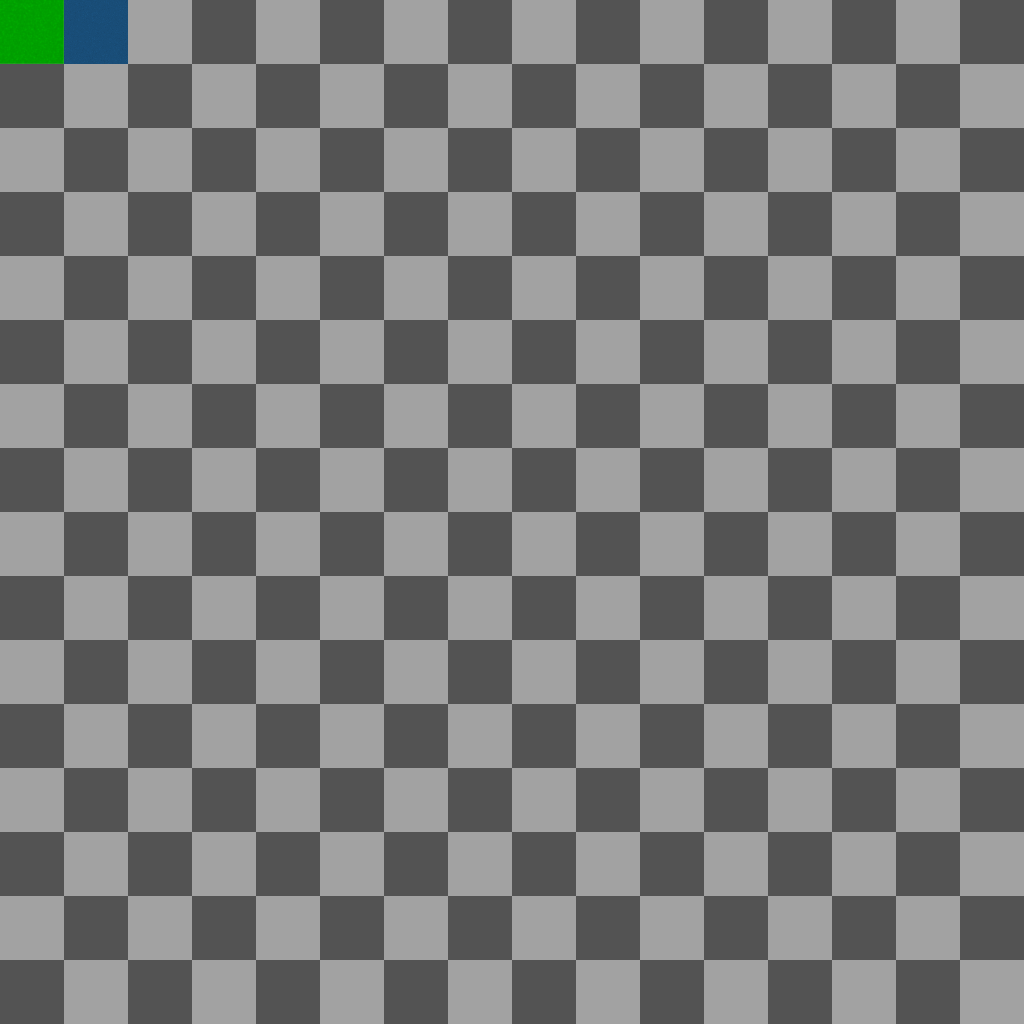
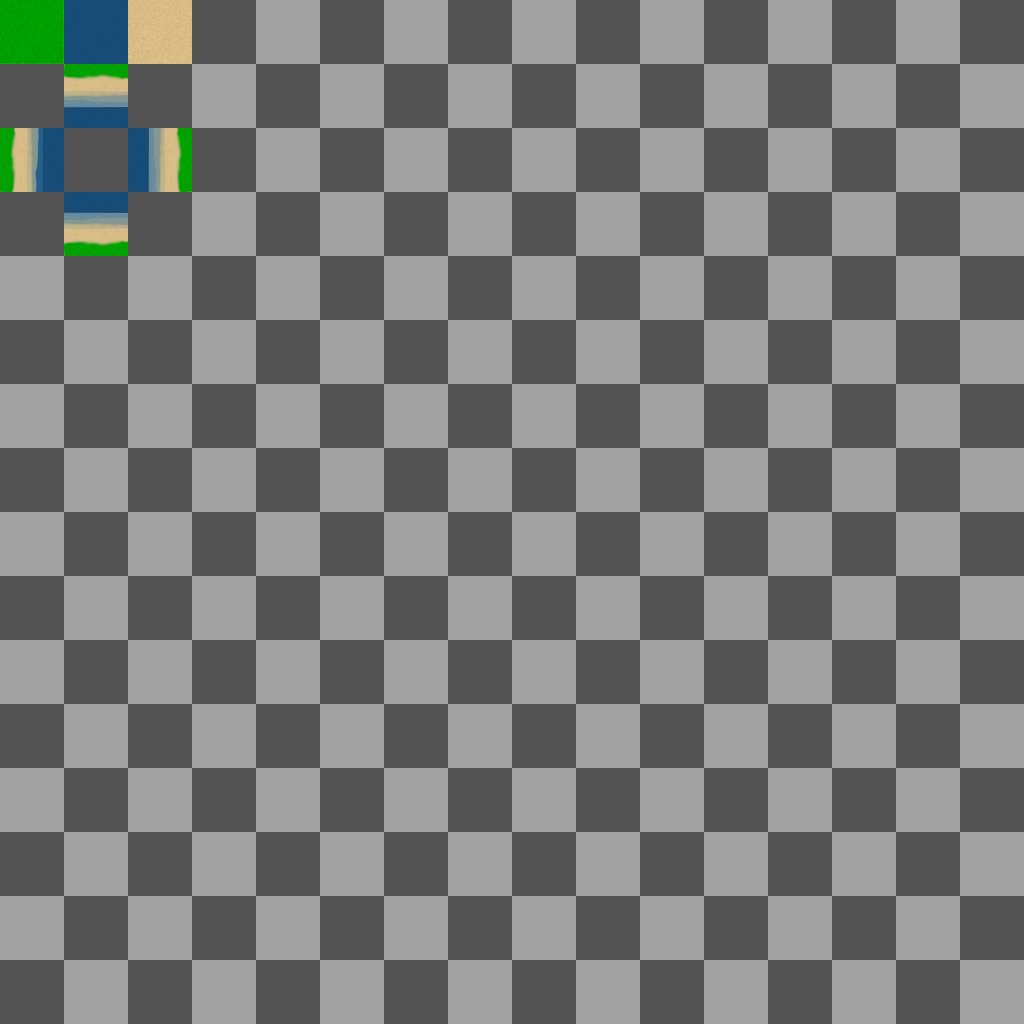
generate coast line with pure sand

diff --git a/js/GameMap.js b/js/GameMap.js
@@ -10,26 +10,80 @@ function GameMap() {
      */
     this.initMap = function() {
 
-        // init noise map
-        noise.seed(this.seed);
-        for (var x = 0; x < GameMap.WIDTH; x++) {
-            var colBuffer = [];
-            for (var y = 0; y < GameMap.HEIGHT; y++) {
-                let val = noise.simplex2(x / 32, y / 32);
-                colBuffer.push(val);
-            }
-            this.noiseMap.push(colBuffer);
-        }
-
         // load real tile map (based on noise)
+        noise.seed(this.seed);
+
         for (var x = 0; x < GameMap.WIDTH; x++) {
             let colBuffer = [];
+            var noiseColBuffer = [];
             for (var y = 0; y < GameMap.HEIGHT; y++) {
+
+                let noiseValue = noise.simplex2(x / 32, y / 32);
+                noiseColBuffer.push(noiseValue);
+
                 let tile = new Tile(x, y);
-                tile.tileTypeFromNoiseValue(this.noiseMap[x][y]);
+                tile.tileTypeFromNoiseValue(noiseValue);
                 colBuffer.push(tile);
             }
             this.tiles.push(colBuffer);
+            this.noiseMap.push(colBuffer);
+        }
+
+        this.processTileTransitions();
+
+    }
+
+    /**
+     * 
+     * We use indices to identify the neighbours of the current tile generically
+     * The indices are as follows:
+     * 
+     * 0 1 2
+     * 7 c 3
+     * 6 5 4
+     * 
+     * Where "c" stands for "current tile"
+     */
+    this.processTileTransitions = function() {
+        for (var x = 0; x < GameMap.WIDTH; x++) {
+            for (var y = 0; y < GameMap.HEIGHT; y++) {
+                let currentTile = this.tiles[x][y];
+                let neighbours = {};
+                // check left
+                if (x > 0) {
+                    neighbours[7] = this.tiles[x - 1][y];
+                }
+                // check right
+                if (x < GameMap.WIDTH - 1) {
+                    neighbours[3] = this.tiles[x + 1][y];
+                }
+                // check top
+                if (y > 0) {
+                    neighbours[1] = this.tiles[x][y - 1];
+                }
+
+                if (y < GameMap.HEIGHT - 1) {
+                    neighbours[5] = this.tiles[x][y + 1];
+                }
+
+                this.processTileNeighbours(currentTile, neighbours);
+
+            }
+        }
+    }
+
+    /**
+     * 
+     * @param {*} currentTile 
+     * @param {*} neightbours 
+     */
+    this.processTileNeighbours = function(currentTile, neighbours) {
+        if (currentTile.hasType(TileType.WATER)) {
+            for (let i = 0; i < 8; i++) {
+                if (neighbours[i] && neighbours[i].hasType(TileType.GRASS)) {
+                    neighbours[i].changeTileType(TileType.SAND);
+                }
+            }
         }
     }
 
@@ -52,5 +106,5 @@ GameMap.HEIGHT = 128;
 // we do not want users with a wider screen to see more of the map than users with a small screen
 // so we define a fixed view distance on both axis
 // => ration between x and y is 16:9
-GameMap.VIEW_DISTANCE_X = 32;
+GameMap.VIEW_DISTANCE_X = 100;
 GameMap.VIEW_DISTANCE_Y = GameMap.VIEW_DISTANCE_X / 16 * 9;

diff --git a/js/TetxtureLoader.js b/js/TetxtureLoader.js
@@ -21,5 +21,10 @@ function TextureAtlas() {
 TextureAtlas.TileSize = 64;
 TextureAtlas.TileLocations = {
     grass: { x: 0, y: 0 },
-    water: { x: 1, y: 0 }
+    water: { x: 1, y: 0 },
+    sand: { x: 2, y: 0 },
+    coast_top: { x: 1, y: 1 },
+    coast_bottom: { x: 1, y: 3 },
+    coast_left: { x: 0, y: 2 },
+    coast_right: { x: 2, y: 2 }
 }

diff --git a/js/TileDefinitions.js b/js/TileDefinitions.js
@@ -1,9 +1,9 @@
 const TileType = {
     GRASS: 'grass',
-    WATER: 'water'
-};
-
-const TileColors = {
-    grass: 'green',
-    water: 'blue'
+    WATER: 'water',
+    COAST_TOP: 'coast_top',
+    COAST_BOTTOM: 'coast_bottom',
+    COAST_LEFT: 'coast_left',
+    COAST_RIGHT: 'coast_right',
+    SAND: 'sand'
 };

diff --git a/js/Tile.js b/js/Tile.js
@@ -16,6 +16,14 @@ function Tile(x, y) {
 
     /**
      * 
+     * @param {*} type 
+     */
+    this.hasType = function(type) {
+        return this.type == type;
+    }
+
+    /**
+     * 
      * @param {*} value 
      */
     this.tileTypeFromNoiseValue = function(value) {
